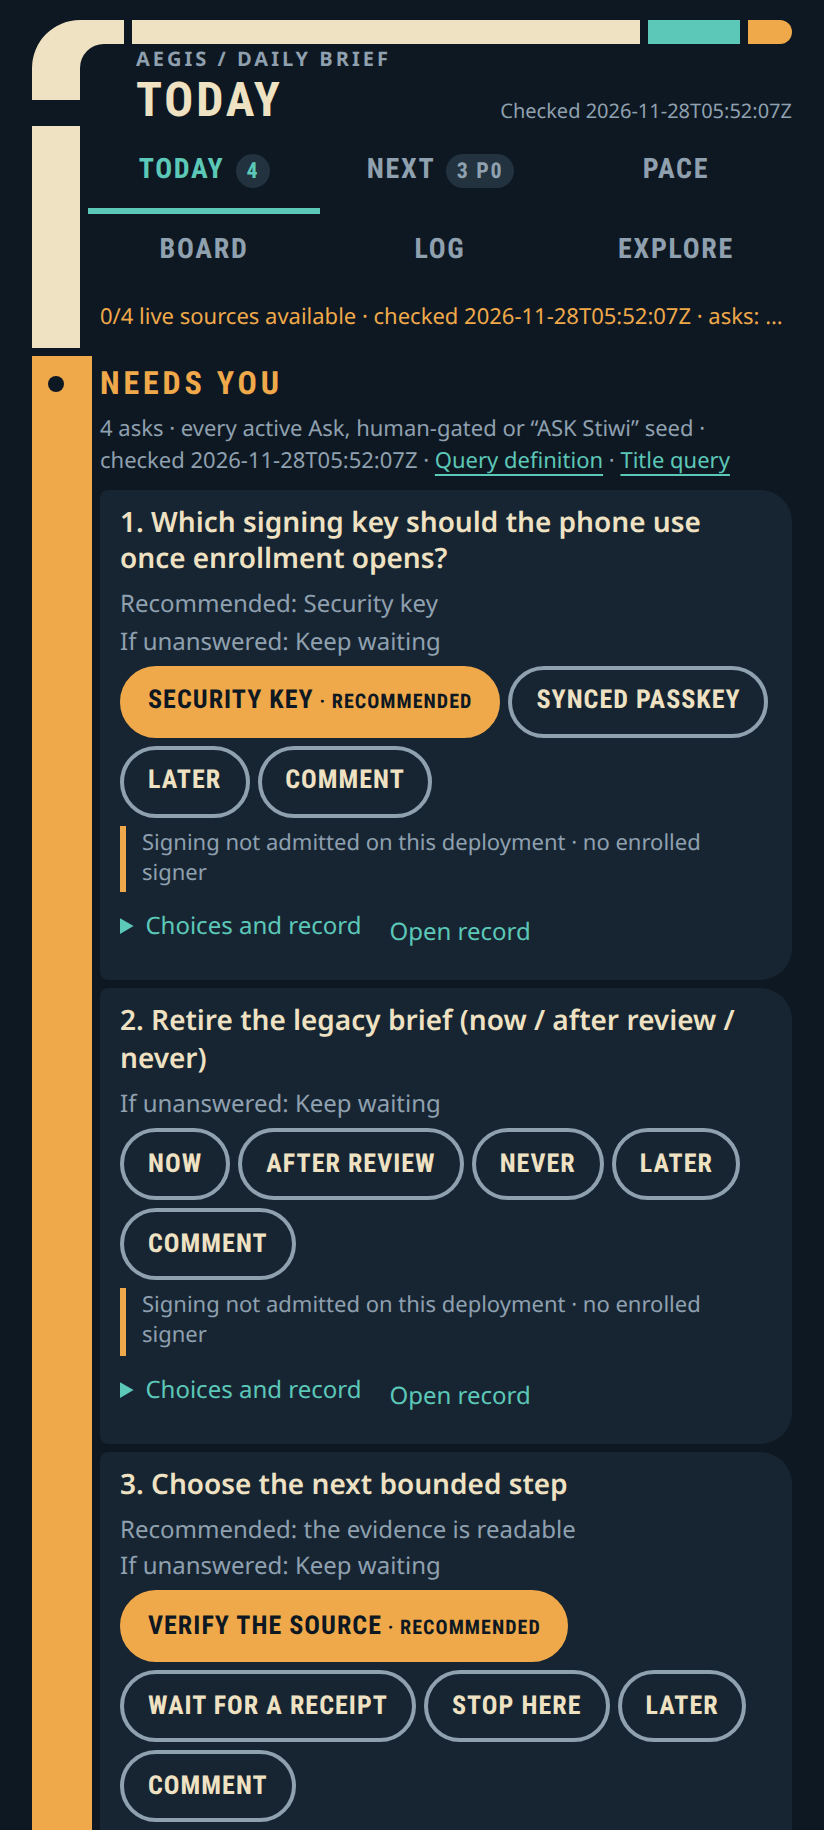
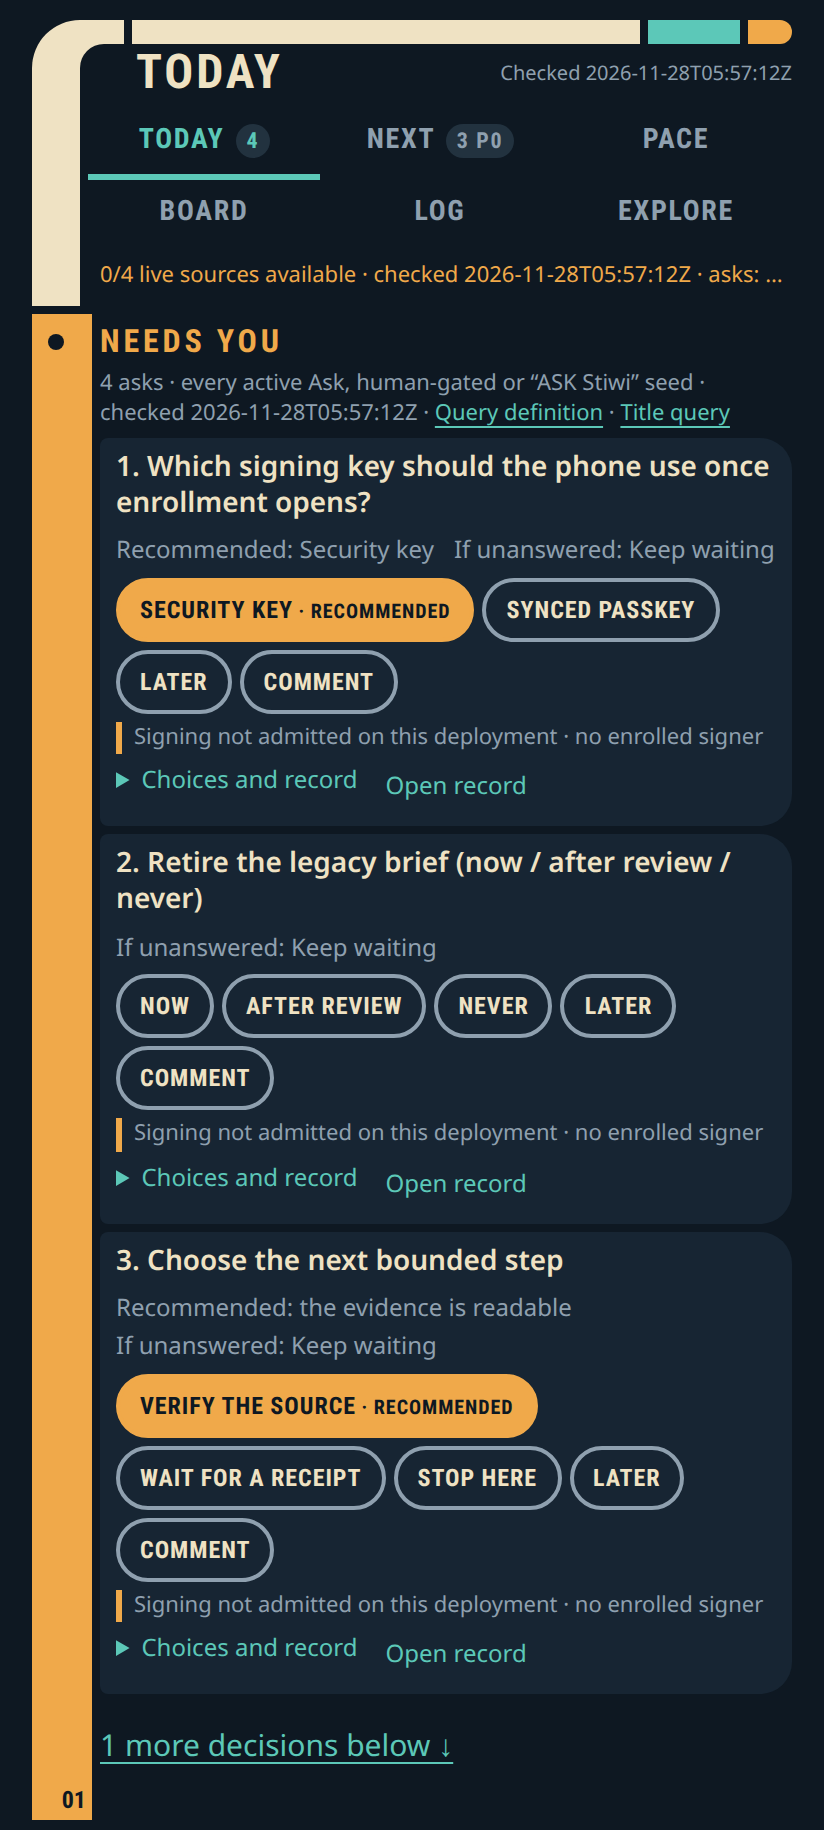
fix(today): leave first-screen headroom for wider fallback fonts
The CI browser lacks the condensed console fonts, so the third Ask choices
fell 36 px below the fold. On phones the eyebrow is hidden and the tabs,
choices and card rows are tighter. Even with DejaVu Sans forced, the third
Ask choices end at y=839 of 915.

Claude-Session: https://claude.ai/code/session_014TTLDBV5NkUoGYSkYYoAg9

diff --git a/web/today/look.css b/web/today/look.css
@@ -72,11 +72,11 @@ footer{color:var(--c-dim)}
   .elbow{border-top-left-radius:24px}
   .elbow::after{width:22px;height:28px;border-top-left-radius:12px}
   .bar{height:12px}
-  .titlerow{padding-left:calc(var(--rail) + 28px);min-height:28px;gap:8px}
-  .eyebrow{font-size:10px;margin:0}
+  .titlerow{padding-left:calc(var(--rail) + 28px);min-height:28px;gap:8px;align-items:center}
+  .eyebrow{display:none}
   h1{font-size:24px}
   .tabs{display:grid;grid-template-columns:repeat(3,minmax(0,1fr));overflow:visible;padding:4px 0 0 4px;gap:0 2px}
-  .tabs button{min-height:40px;padding:6px 4px;font-size:14px;letter-spacing:.06em}
+  .tabs button{min-height:36px;padding:4px;font-size:14px;letter-spacing:.06em}
   .tabs b{margin-left:2px;padding:2px 5px}
   .connection{white-space:nowrap;overflow:hidden;text-overflow:ellipsis;padding:4px 0 6px 10px;margin:0 0 4px;cursor:pointer}
   .connection:focus,.connection:hover{white-space:normal;overflow:visible}
@@ -85,19 +85,20 @@ footer{color:var(--c-dim)}
   .card::before,.brief-panel::before{font-size:12px;padding:0 3px 4px}
   .card::after,.brief-panel::after{left:8px;top:10px;width:8px;height:8px}
   .card h2,.brief-panel h2{font-size:16px;margin-bottom:4px}
-  .needs-you .source-status{font-size:11px;line-height:1.45;margin:0 0 6px}
-  .ask{padding:8px 10px;margin:0 0 4px}
-  .ask .q{font-size:14px;line-height:1.35}
+  .needs-you .source-status{font-size:11px;line-height:1.35;margin:0 0 4px}
+  .ask{padding:6px 8px;margin:0 0 4px}
+  .ask .q{font-size:14px;line-height:1.3}
   .ask-decide{margin:4px 0 2px}
-  .ask-decide .decision-context{font-size:12px;line-height:1.35;margin:2px 0}
+  .ask-decide .decision-why{display:flex;flex-wrap:wrap;gap:0 10px}
+  .ask-decide .decision-context{font-size:12px;line-height:1.3;margin:2px 0}
   .ask-decide .decision-actions{gap:4px;margin:4px 0}
-  .ask-decide .decision-choice{font-size:13px;min-height:36px;min-width:0;padding:4px 12px;letter-spacing:.04em}
+  .ask-decide .decision-choice{font-size:12px;min-height:32px;min-width:0;padding:2px 10px;letter-spacing:.04em}
   .rec-badge{font-size:10px}
-  .ask-decide .decision-status{font-size:11px;line-height:1.35;padding:2px 8px;margin:4px 0}
+  .ask-decide .decision-status{font-size:11px;line-height:1.3;padding:1px 6px;margin:2px 0}
   .ask-details{display:inline-block;margin:0 12px 0 0;vertical-align:middle}
   .ask-details[open]{display:block}
-  .ask-details summary{min-height:32px;padding:4px 0}
-  .ask>.record-link{margin:0;min-height:32px;vertical-align:middle}
+  .ask-details summary{min-height:28px;padding:2px 0;font-size:12px}
+  .ask>.record-link{margin:0;min-height:28px;vertical-align:middle}
 }
 @keyframes grow{from{transform:scaleY(0)}}
 @keyframes sweep{from{transform:scaleX(0)}}

diff --git a/docs/demos/today-phone/README.md b/docs/demos/today-phone/README.md
@@ -17,3 +17,6 @@ same way `scripts/test-today-look-browser.mjs` does; no request leaves the page.
 
 Desktop layout is unchanged: the compact rules apply at 600 px and below.
 `askDecisionsEnabled` stays false; every choice still renders disabled with its reason.
+
+The CI browser may lack the condensed console fonts. With every font forced to
+the wider DejaVu Sans, the third Ask choices still end at y=839 of 915.
